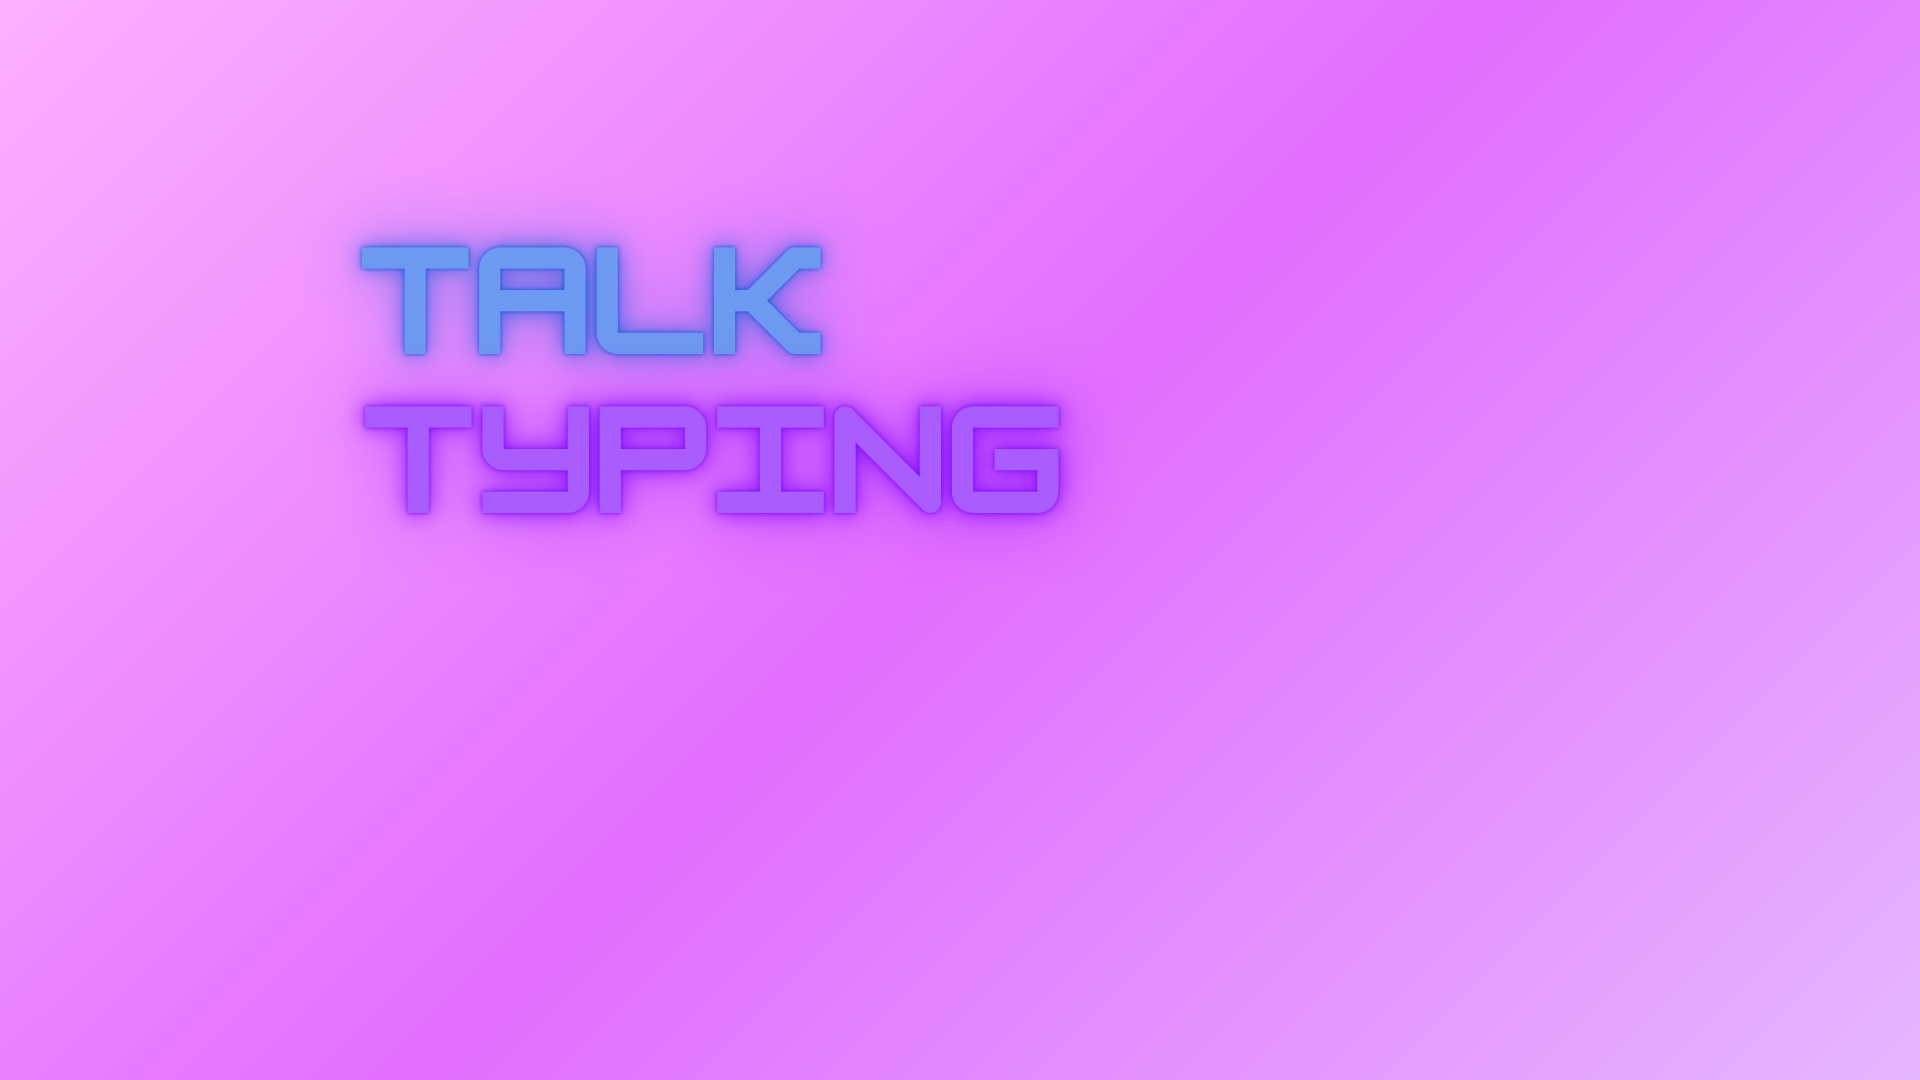
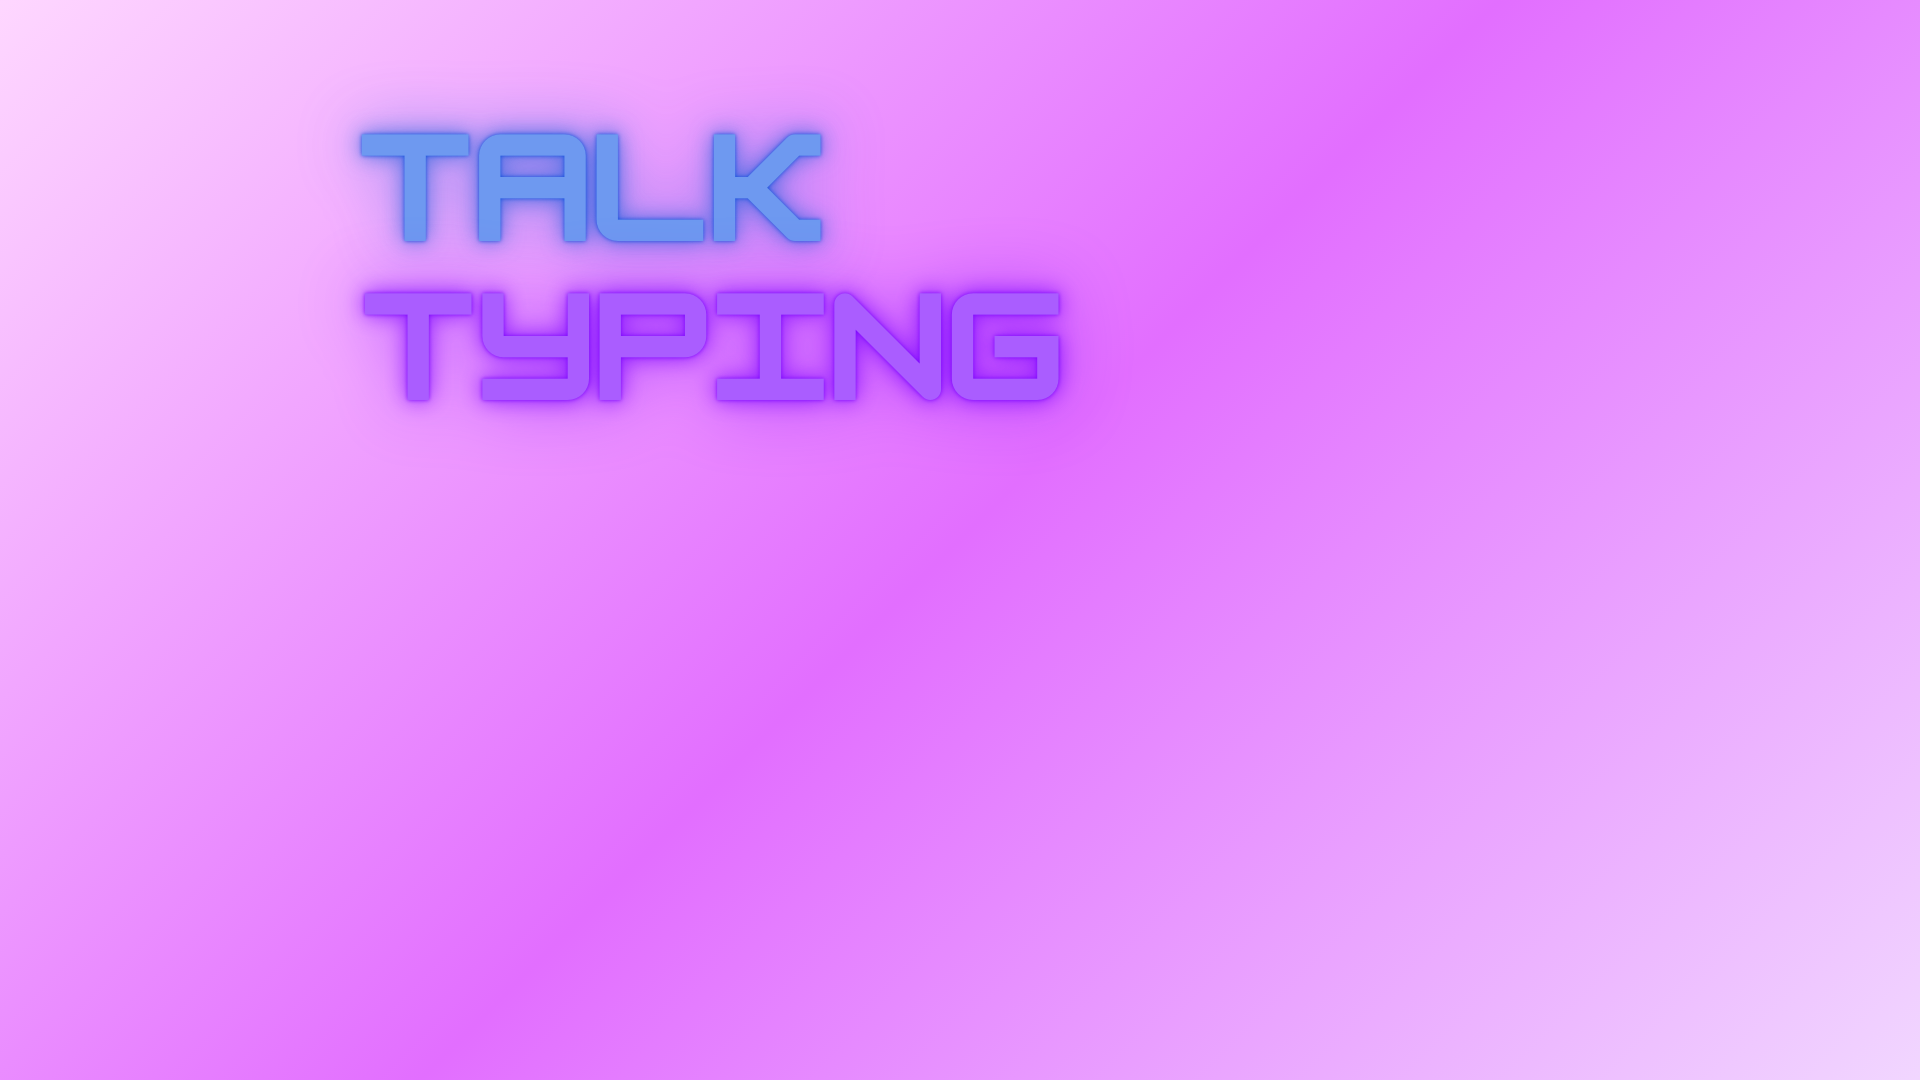
aaa

Changed region(s): [[0.0, 0.0, 0.5625, 0.5194], [0.8125, 0.6722, 1.0, 1.0]]

diff --git a/frontend/src/pages/Start.tsx b/frontend/src/pages/Start.tsx
@@ -14,7 +14,7 @@ const Start: React.FC = () => {
 
   return (
     <div className="start-container">
-      <h1>TALK TYPINGへ   ようこそ！</h1>
+      <h1>　　　　　　　　　　へ ようこそ！</h1>
       <FormControl variant="outlined" fullWidth>
         <InputLabel>英語レベルを選択</InputLabel>
         <Select
@@ -29,7 +29,7 @@ const Start: React.FC = () => {
         </Select>
       </FormControl>
       <Button variant="contained" color="primary" onClick={handleStart}>
-        スタート
+        Let's Start
       </Button>
     </div>
   );

diff --git a/frontend/src/components/Chat.tsx b/frontend/src/components/Chat.tsx
@@ -56,7 +56,7 @@ const Chat: React.FC = () => {
       height: '100vh',
       width: '100vw',
     }}>
-      <Box sx={{ flex: 1, overflowY: 'auto', backgroundColor: '#e6e6fa' }}>
+      <Box className="log-color" sx={{ flex: 1, overflowY: 'auto' }}>
         <Log messages={messages} />
       </Box>
       <Box sx={{ 

diff --git a/frontend/src/index.css b/frontend/src/index.css
@@ -27,7 +27,9 @@ body {
   place-items: center;
   width: 100%;
   min-height: 100vh;
-  background-color: #e8c9ff;
+  background-image: url(images/Talk.png);
+  background-repeat: no-repeat;
+  background-size: 100% 100%;
 }
 
 h1 {

diff --git a/frontend/src/components/Log.css b/frontend/src/components/Log.css
@@ -17,7 +17,7 @@
     max-width: 100%;
     border-radius: 10px;
     font-size: 20px;
-    background-color: #b7b0f5;
+    background-color: rgb(181, 181, 255);
     text-align: right;
 }
 
